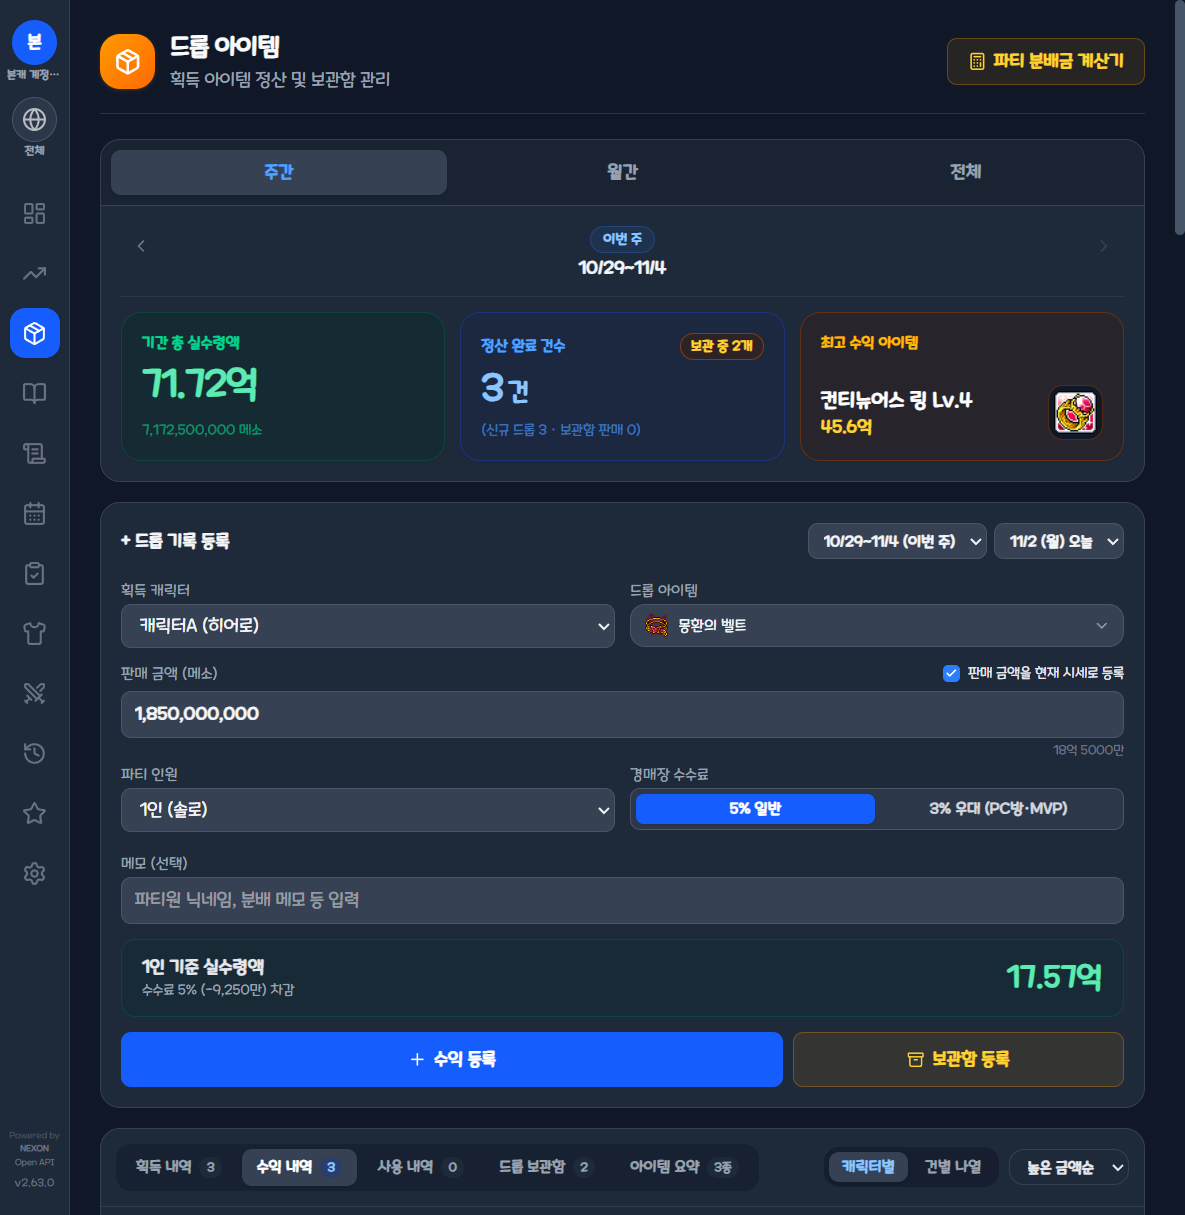
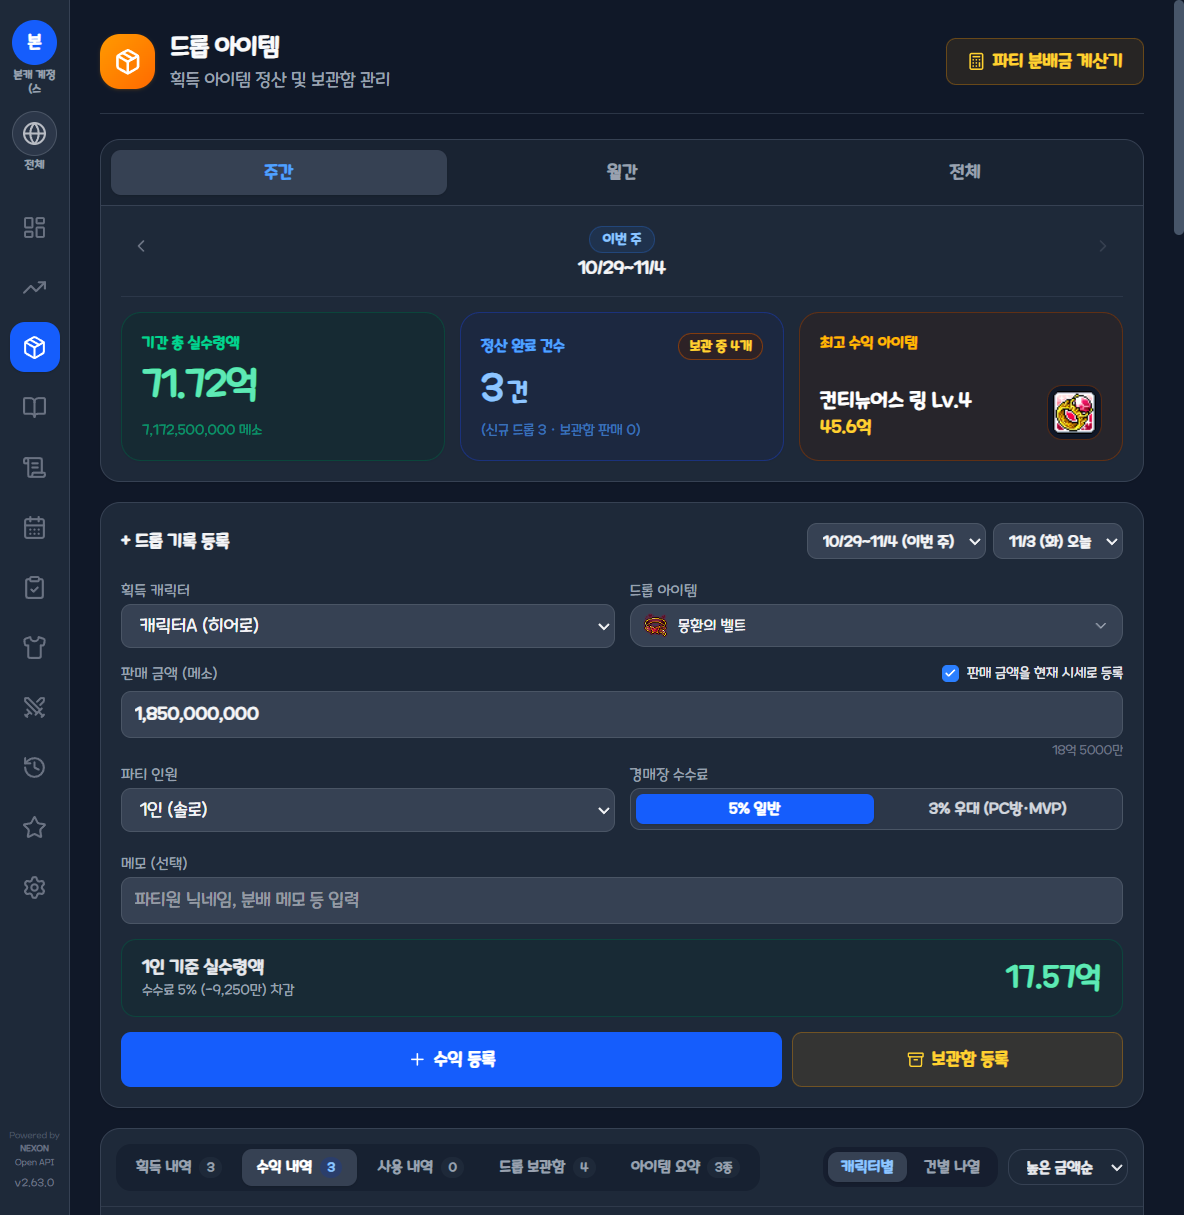
docs: 03 드롭 아이템 페이지에 수익 내역 및 드롭 보관함 세부 사진·설명 추가

diff --git a/docs/index.html b/docs/index.html
@@ -171,7 +171,7 @@
         </a>
         <a href="#page-03" class="page-card rounded-2xl p-4 flex flex-col justify-between hover:no-underline">
           <div>
-            <div class="flex items-center justify-between text-xs font-bold text-amber-400 mb-1.5"><span>03 · 수익 &amp; 메소</span><span>세부 2장 →</span></div>
+            <div class="flex items-center justify-between text-xs font-bold text-amber-400 mb-1.5"><span>03 · 수익 &amp; 메소</span><span>세부 4장 →</span></div>
             <h3 class="text-base font-bold text-white flex items-center gap-2">
               <svg class="w-4 h-4 text-amber-400 shrink-0" viewBox="0 0 24 24" fill="none" stroke="currentColor" stroke-width="2" stroke-linecap="round" stroke-linejoin="round"><path d="M11 21.73a2 2 0 0 0 2 0l7-4A2 2 0 0 0 21 16V8a2 2 0 0 0-1-1.73l-7-4a2 2 0 0 0-2 0l-7 4A2 2 0 0 0 3 8v8a2 2 0 0 0 1 1.73z"/><path d="M12 22V12"/><polyline points="3.29 7 12 12 20.71 7"/><path d="m7.5 4.27 9 5.15"/></svg>
               <span>드롭 아이템</span>
@@ -520,8 +520,24 @@
         ],
         details: [
           {
+            shot: './screenshots/p03-drop-records.png',
+            title: '① 드롭 수익 내역 (캐릭터별 · 건별 정산)',
+            items: [
+              '판매 완료된 드롭 아이템의 캐릭터별 실수령액 합계·비중(%) 및 건별 판매가·수수료·분배 인원 표시',
+              '캐릭터별 묶음 / 건별 나열 전환 및 금액·최신순 정렬, 메모·수정·삭제 지원'
+            ]
+          },
+          {
+            shot: './screenshots/p03-drop-storage.png',
+            title: '② 드롭 보관함 (미판매 아이템 보관 · 판매/사용 전환)',
+            items: [
+              '획득 직후 판매하지 않은 아이템을 보관하고 현재 시세 합계와 보관 기간 표시',
+              '아이템 클릭 시 [판매함](이번 주 수익 반영) 또는 [사용함](직접 착용 처리)으로 즉시 전환'
+            ]
+          },
+          {
             shot: './screenshots/p03-drop-split.png',
-            title: '① 분배금 계산기',
+            title: '③ 분배금 계산기',
             items: [
               '아이템 시세·경매장 수수료(3%/5%)·교환 수수료·파티 인원(2~6인) 기준 계산',
               '1인당 수령액과 파티원에게 송금할 1인당 분배금 자동 산출'
@@ -529,7 +545,7 @@
           },
           {
             shot: './screenshots/p03-drop-prices.png',
-            title: '② 빠른 등록 아이템 내역 & 시세 변동 그래프',
+            title: '④ 빠른 등록 아이템 내역 & 시세 변동 그래프',
             items: [
               '칠흑·광휘 장신구 기본 시세 빠른 등록 및 일괄 수정 지원',
               '등록된 아이템 클릭 시 시세 변동 그래프와 직전/평균 대비 등락률 확인'

diff --git a/README.md b/README.md
@@ -125,13 +125,23 @@
 ![03. 드롭 아이템 대표 화면](./docs/screenshots/p03-drop-main.png)
 
 <details>
-<summary><b>🔍 클릭하여 [03. 드롭 아이템] 세부 사용 사진 및 설명 보기 (2장)</b></summary>
+<summary><b>🔍 클릭하여 [03. 드롭 아이템] 세부 사용 사진 및 설명 보기 (4장)</b></summary>
 
-#### ① 분배금 계산기
+#### ① 드롭 수익 내역 (캐릭터별 · 건별 정산)
+- 판매 완료된 드롭 아이템의 캐릭터별 실수령액 합계·비중(%) 및 건별 판매가·수수료·분배 인원 표시
+- 캐릭터별 묶음 / 건별 나열 전환 및 금액·최신순 정렬, 메모·수정·삭제 지원
+![드롭 수익 내역](./docs/screenshots/p03-drop-records.png)
+
+#### ② 드롭 보관함 (미판매 아이템 보관 · 판매/사용 전환)
+- 획득 직후 판매하지 않은 아이템을 보관하고 현재 시세 합계와 보관 기간 표시
+- 아이템 클릭 시 **[판매함]**(이번 주 수익 반영) 또는 **[사용함]**(직접 착용 처리)으로 즉시 전환
+![드롭 보관함](./docs/screenshots/p03-drop-storage.png)
+
+#### ③ 분배금 계산기
 - 아이템 시세·경매장 수수료(3%/5%)·교환 수수료·파티 인원(2~6인) 기준 1인당 수령액 및 송금액 계산
 ![분배금 계산기](./docs/screenshots/p03-drop-split.png)
 
-#### ② 빠른 등록 아이템 내역 & 시세 변동 그래프
+#### ④ 빠른 등록 아이템 내역 & 시세 변동 그래프
 - 칠흑·광휘 장신구 기본 시세 빠른 등록 및 등록된 아이템 클릭 시 시세 변동 그래프·등락률 확인
 ![빠른 등록 및 시세 변동 그래프](./docs/screenshots/p03-drop-prices.png)
 
